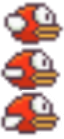
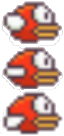
Implemented game start phase, enhanced bird animation

diff --git a/main.js b/main.js
@@ -18,7 +18,7 @@ var mainState = {
         game.load.image('ground', 'assets/ground.png');
         // Load the bird sprite
         game.load.image('bird', 'assets/FlappyBird.png');
-        game.load.spritesheet('redBird', 'assets/RedBird.png', 64, 139/3, 3);
+        game.load.spritesheet('redBird', 'assets/RedBird.png', 64, 137/3, 3);
         game.load.image('pipe', 'assets/MiddlePipe.png');
         game.load.image('pipeHead', 'assets/EndPipe.png');
         game.load.audio('jump', 'assets/jump.wav');
@@ -49,11 +49,11 @@ var mainState = {
         this.bird = this.game.add.sprite(100, 245, 'redBird');
         this.bird.width = 40;
         this.bird.height = 40;
-        // Add gravity to the bird to make it fall
-        game.physics.arcade.enable(this.bird);
-        this.bird.body.gravity.y = 1000;
         this.bird.anchor.setTo(-0.2, 0.5);
 
+        // Add gravity to the bird to make it fall
+        game.physics.arcade.enable(this.bird);
+        
         // Add animation
         var flap = this.bird.animations.add('flap');
         this.bird.animations.play('flap', 30, true);
@@ -89,6 +89,7 @@ var mainState = {
 
         // Create pipes every 1.5 seconds
         this.timer = game.time.events.loop(1500, this.addRowOfPipes, this);
+        this.gameStart = false;
 
         // Keep track of current pipe on screen
         this.currentPipe = null;
@@ -102,6 +103,9 @@ var mainState = {
     update: function() {
         // This function is called 60 times per second    
         // It contains the game's logic   
+        if (this.gameStart)
+            this.bird.body.gravity.y = 1000;
+
         if (this.bird.inWorld == false)
             this.restartGame();
 
@@ -159,6 +163,9 @@ var mainState = {
 
     // Make the bird jump 
     jump: function () {
+        // Set boolean to true to allow for pipes to spawn 
+        this.gameStart = true;
+
         if (this.bird.alive == false)
             return;
         // Add a vertical velocity to the bird
@@ -204,6 +211,9 @@ var mainState = {
     },
 
     addRowOfPipes: function () {
+        if (!this.gameStart)
+            return;
+
         // Pick where the hole will be (number from 3 to 6)
         var hole = Math.floor(Math.random() * 4) + 3;
 
